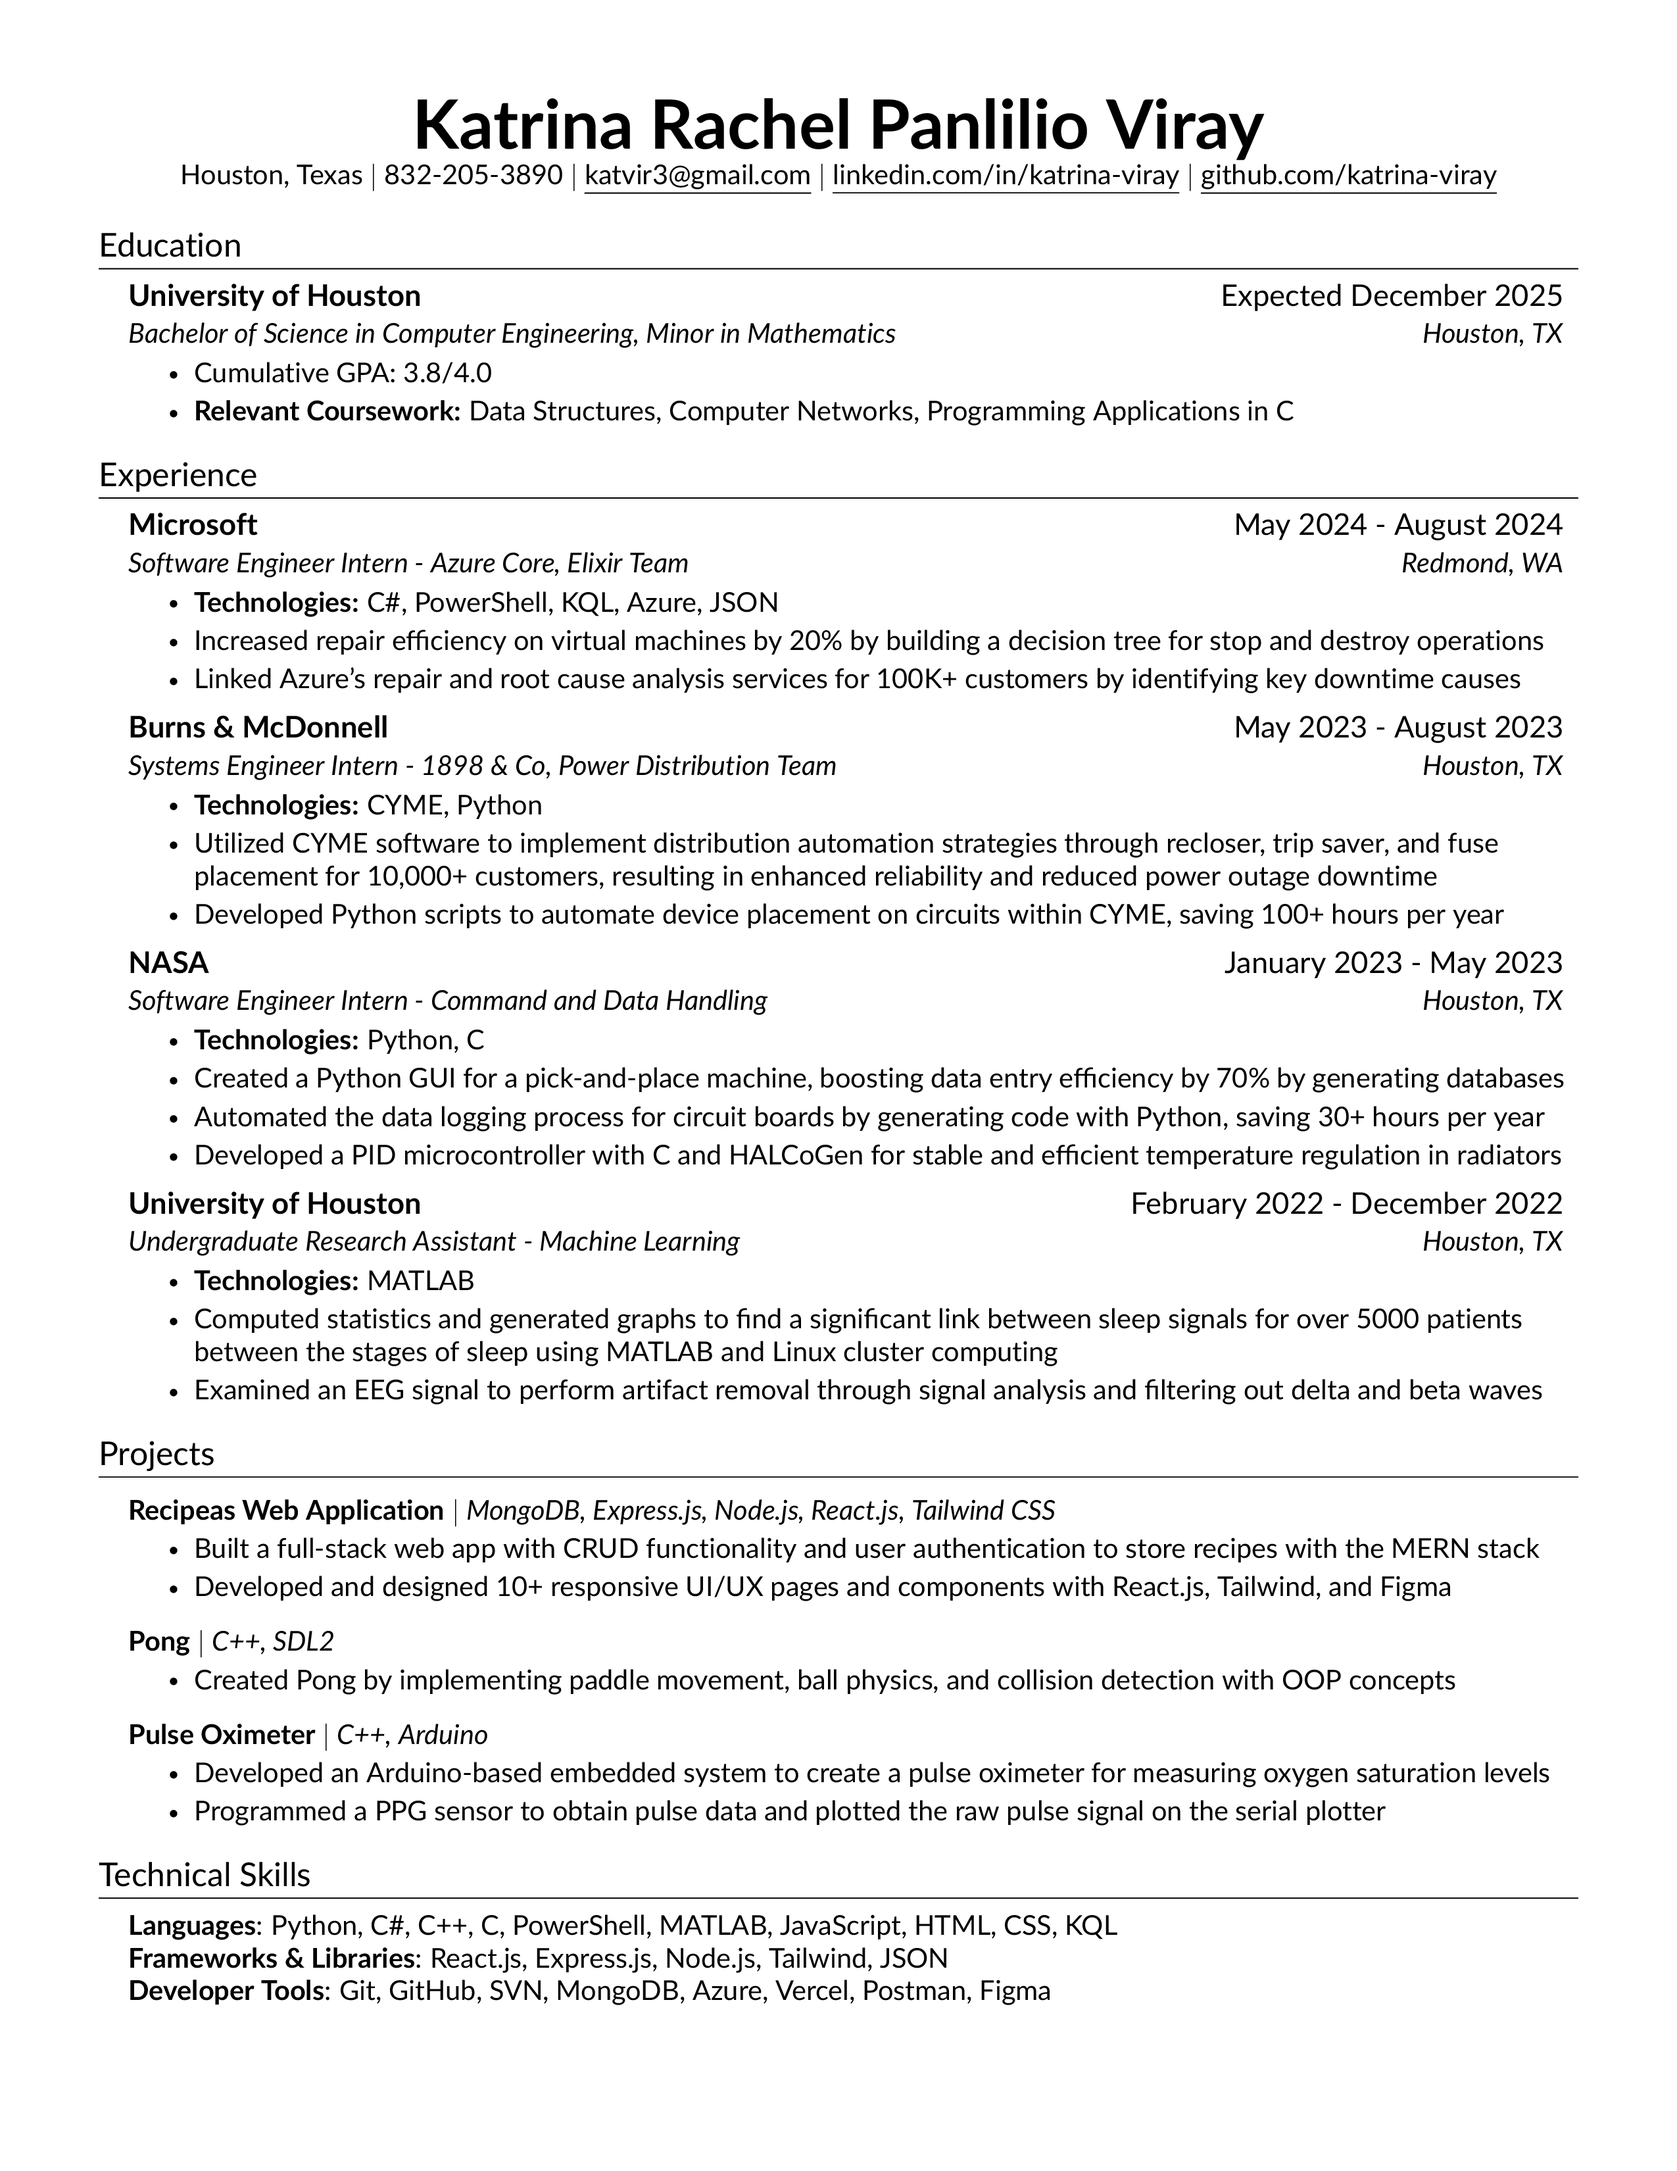
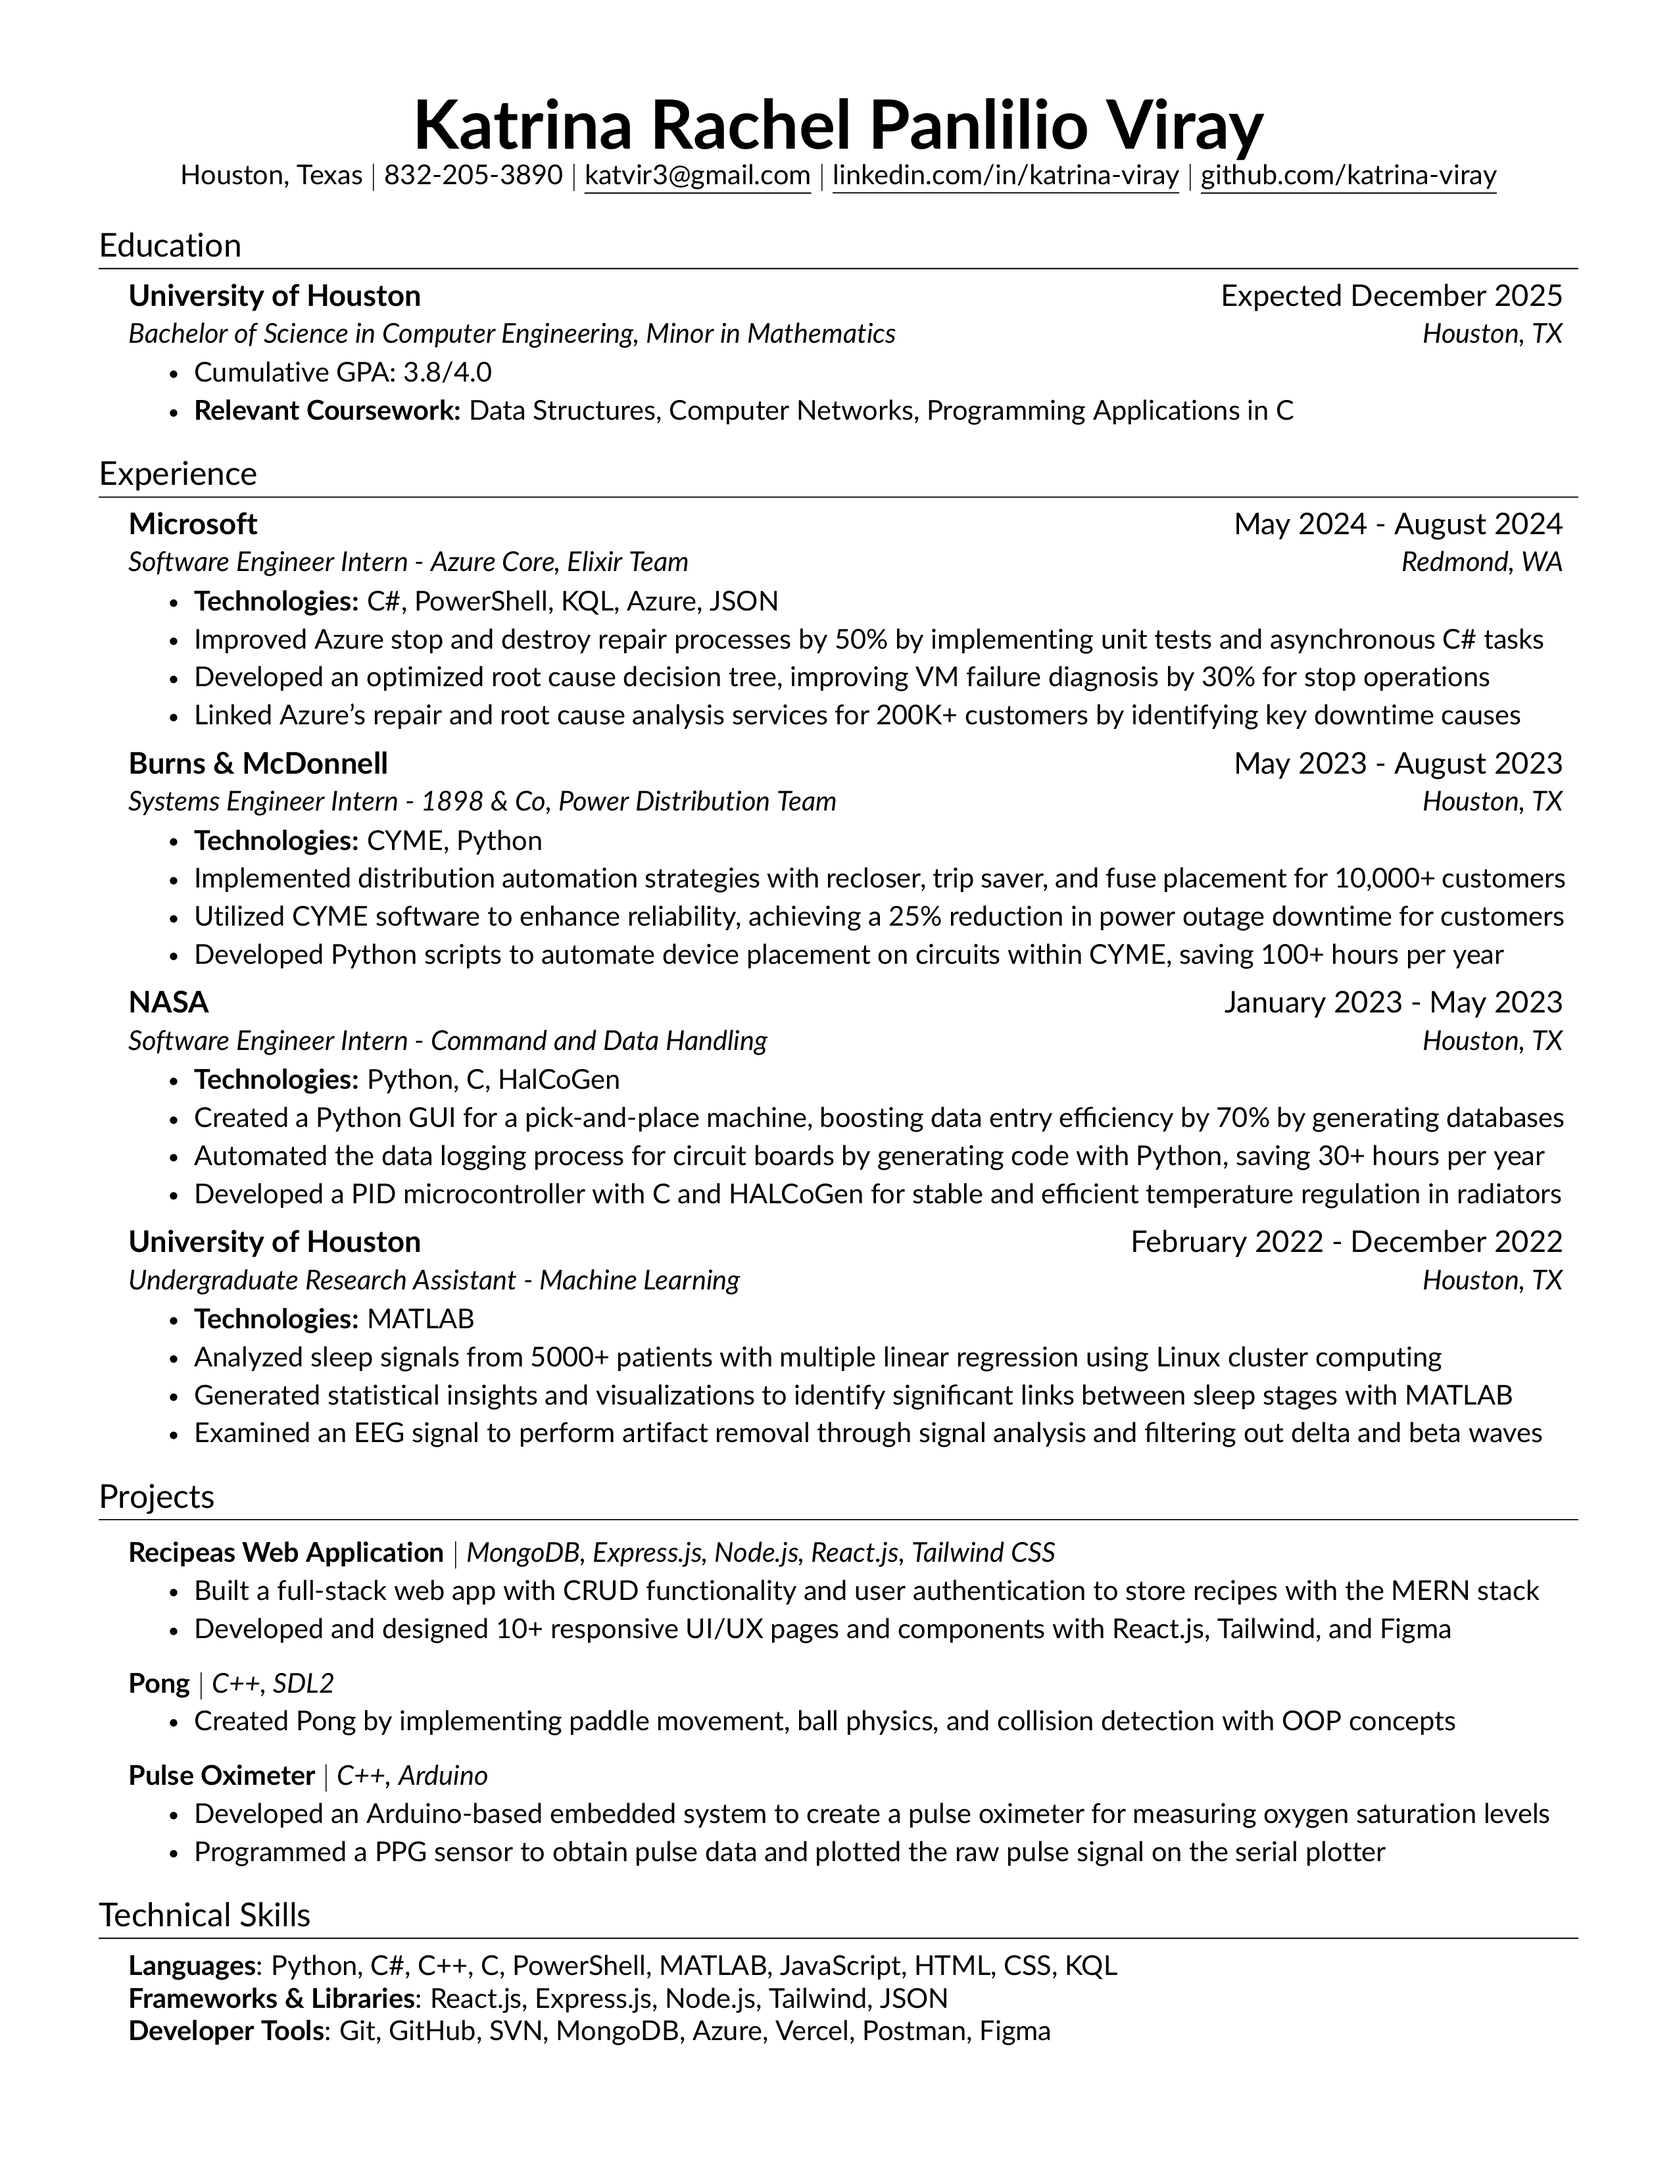
feat: make all bullets only one line and add to MS

Changed region(s): [[0.062, 0.2185, 0.9294, 0.9364], [0.8984, 0.2185, 0.9294, 0.2497], [0.7745, 0.2185, 0.8055, 0.2497]]

diff --git a/src/components/experience.tex b/src/components/experience.tex
@@ -7,8 +7,9 @@
     {Software Engineer Intern - Azure Core, Elixir Team}{Redmond, WA}
     \resumeItemListStart
         \resumeItem{\textbf{Technologies:} C\#, PowerShell, KQL, Azure, JSON}
-        \resumeItem{Increased repair efficiency on virtual machines by 20\% by building a decision tree for stop and destroy operations}
-        \resumeItem{Linked Azure’s repair and root cause analysis services for 100K+ customers by identifying key downtime causes}
+        \resumeItem{Improved Azure stop and destroy repair processes by 50\% by implementing unit tests and asynchronous C\# tasks}
+        \resumeItem{Developed an optimized root cause decision tree, improving VM failure diagnosis by 30\% for stop operations}
+        \resumeItem{Linked Azure’s repair and root cause analysis services for 200K+ customers by identifying key downtime causes}
     \resumeItemListEnd
 
 \resumeSubheading
@@ -16,7 +17,8 @@
     {Systems Engineer Intern - 1898 \& Co, Power Distribution Team}{Houston, TX}
     \resumeItemListStart
         \resumeItem{\textbf{Technologies:} CYME, Python}
-        \resumeItem{Utilized CYME software to implement distribution automation strategies through recloser, trip saver, and fuse placement for 10,000+ customers, resulting in enhanced reliability and reduced power outage downtime} 
+        \resumeItem{Implemented distribution automation strategies with recloser, trip saver, and fuse placement for 10,000+ customers} 
+        \resumeItem{Utilized CYME software to enhance reliability, achieving a 25\% reduction in power outage downtime for customers} 
         \resumeItem{Developed Python scripts to automate device placement on circuits within CYME, saving 100+ hours per year} 
     \resumeItemListEnd
 
@@ -24,7 +26,7 @@
     {NASA}{January 2023 - May 2023}
     {Software Engineer Intern - Command and Data Handling}{Houston, TX}
     \resumeItemListStart
-        \resumeItem{\textbf{Technologies:} Python, C}
+        \resumeItem{\textbf{Technologies:} Python, C, HalCoGen}
         \resumeItem{Created a Python GUI for a pick-and-place machine, boosting data entry efficiency by 70\% by generating databases} 
         \resumeItem{Automated the data logging process for circuit boards by generating code with Python, saving 30+ hours per year} 
         \resumeItem{Developed a PID microcontroller with C and HALCoGen for stable and efficient temperature regulation in radiators} 
@@ -35,7 +37,8 @@
     {Undergraduate Research Assistant - Machine Learning}{Houston, TX}
     \resumeItemListStart
         \resumeItem{\textbf{Technologies:} MATLAB}
-        \resumeItem{Computed statistics and generated graphs to find a significant link between sleep signals for over 5000 patients between the stages of sleep using MATLAB and Linux cluster computing} 
+        \resumeItem{Analyzed sleep signals from 5000+ patients with multiple linear regression using Linux cluster computing} 
+        \resumeItem{Generated statistical insights and visualizations to identify significant links between sleep stages with MATLAB} 
         \resumeItem{Examined an EEG signal to perform artifact removal through signal analysis and filtering out delta and beta waves}
     \resumeItemListEnd
 
